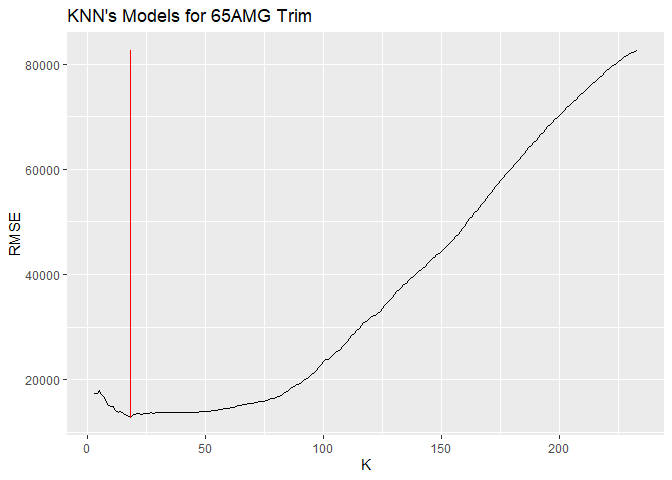
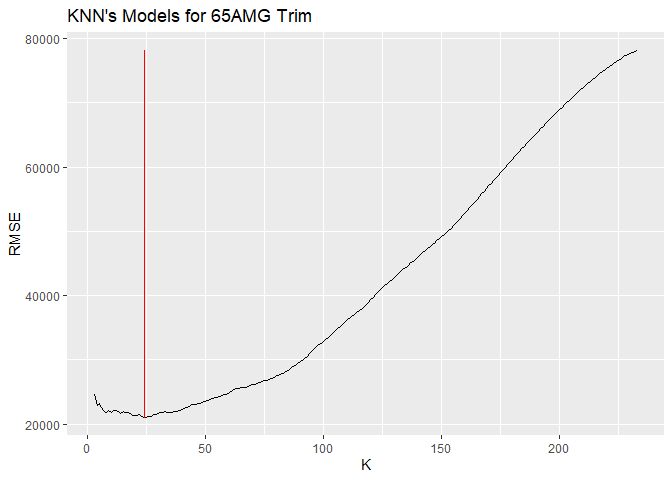
4th

diff --git a/Assignment-1.md b/Assignment-1.md
@@ -24,7 +24,7 @@ The first pattern we try to explore is the average departure delay for
 different carriers and see which carriers have more delays on average.
 This will show the performance of carriers.
 
-![](Assignment-1_files/figure-markdown_github/unnamed-chunk-2-1.png)
+![](Assignment-1_files/figure-markdown_strict/unnamed-chunk-2-1.png)
 
 Average Cancellation Rate per Carrier
 -------------------------------------
@@ -33,7 +33,7 @@ Calculating the average cancellation rate per carriers we see that MQ
 has the highest cancellation rate among all carriers that are departing
 from ABIA.
 
-![](Assignment-1_files/figure-markdown_github/unnamed-chunk-3-1.png)
+![](Assignment-1_files/figure-markdown_strict/unnamed-chunk-3-1.png)
 
 Average Departure Delay for Time of the Day
 -------------------------------------------
@@ -45,7 +45,7 @@ of 00:00 is an outlier and should be ignored because we have only two
 flights flying out at 00 hour and only one of them is delayed for 56
 mins leading to a higher average delay for that hour.
 
-![](Assignment-1_files/figure-markdown_github/unnamed-chunk-4-1.png)
+![](Assignment-1_files/figure-markdown_strict/unnamed-chunk-4-1.png)
 
 Average Cancellation for Time of the Day
 ----------------------------------------
@@ -54,7 +54,7 @@ Looking at cancellation pattern for every hour of the day, we see that
 the highest cancellation rate occurs for 22:00 hour of the day. Any
 flight within this hour has a higher rate of cancellation than flights
 flying out at other hours of the day
-![](Assignment-1_files/figure-markdown_github/unnamed-chunk-5-1.png)
+![](Assignment-1_files/figure-markdown_strict/unnamed-chunk-5-1.png)
 
 Average Delay per Month of the Year
 -----------------------------------
@@ -64,7 +64,7 @@ that the month of December witnesses highest average delays. This can be
 attributed to the weather in this month and also the higher number of
 flights in holiday season.
 
-![](Assignment-1_files/figure-markdown_github/unnamed-chunk-6-1.png)
+![](Assignment-1_files/figure-markdown_strict/unnamed-chunk-6-1.png)
 
 Average Cancellation Rate for Month of the Year
 -----------------------------------------------
@@ -74,7 +74,7 @@ that the month of March saw highest rate of flight cancellation flying
 out of ABIA. This can be attributed to weather and higher number of
 flights in this month.
 
-![](Assignment-1_files/figure-markdown_github/unnamed-chunk-7-1.png)
+![](Assignment-1_files/figure-markdown_strict/unnamed-chunk-7-1.png)
 
 Average Delay per Destination of Flight
 ---------------------------------------
@@ -84,7 +84,7 @@ airports have higher delays for flights flying out of Austin. Des Moines
 International Airport has the highest average delay with Newark Liberty
 Airport coming second in average delays.
 
-![](Assignment-1_files/figure-markdown_github/unnamed-chunk-8-1.png)
+![](Assignment-1_files/figure-markdown_strict/unnamed-chunk-8-1.png)
 
 Question 2. K-nearest neighbors
 ===============================
@@ -98,7 +98,7 @@ Model for MB S350
 
 ### Figure 2.1.
 
-![](Assignment-1_files/figure-markdown_github/unnamed-chunk-10-1.png)
+![](Assignment-1_files/figure-markdown_strict/unnamed-chunk-10-1.png)
 
 In the figure 2.1. we can see the negative relation between the mileage
 and the price, as expected.
@@ -111,19 +111,19 @@ mileage.
 
 ### Figure 2.2.
 
-![](Assignment-1_files/figure-markdown_github/unnamed-chunk-12-1.png)
+![](Assignment-1_files/figure-markdown_strict/unnamed-chunk-12-1.png)
 
 The figure 2.2. shows the series of RMSE at every value of K, the red
 line indicate the k which generate the minimum RMSE. In this case the k
-value is 15. However this value will change any time we generate a new
+value is 16. However this value will change any time we generate a new
 random sample, to decide the best k we repeated the process ten times
 and then we took the average of the minium k.
 
 ### Figure 2.3.
 
-    ## [1] 11486.15
+    ## [1] 9986.78
 
-![](Assignment-1_files/figure-markdown_github/unnamed-chunk-13-1.png)
+![](Assignment-1_files/figure-markdown_strict/unnamed-chunk-13-1.png)
 
 After run the model with the best k, we generate the fitted values to
 compare with our test subset. the figure 2.3. shows the fit of the
@@ -137,22 +137,22 @@ for the S65 AMG class.
 
 ### Figure 2.4.
 
-![](Assignment-1_files/figure-markdown_github/unnamed-chunk-14-1.png)
+![](Assignment-1_files/figure-markdown_strict/unnamed-chunk-14-1.png)
 
 ### Figure 2.5.
 
-![](Assignment-1_files/figure-markdown_github/unnamed-chunk-16-1.png)
+![](Assignment-1_files/figure-markdown_strict/unnamed-chunk-16-1.png)
 
 The figure 2.5. shows the series of RMSE at every value of K, the red
 line indicate the k which generate the minimum RMSE. In this case the k
-value which minimize the RMSE for S65 AMG trim is 18. However this value
+value which minimize the RMSE for S65 AMG trim is 23. However this value
 will change any time we generate a new random sample, to decide the best
 k we repeated the process ten times and then we took the average of the
 minium k.
 
 ### Figure 2.6.
 
-![](Assignment-1_files/figure-markdown_github/unnamed-chunk-18-1.png)
+![](Assignment-1_files/figure-markdown_strict/unnamed-chunk-18-1.png)
 
 After run the model with the best k, we generate the fitted values to
 compare with our test subset. the figure 2.6. shows the fit of the
